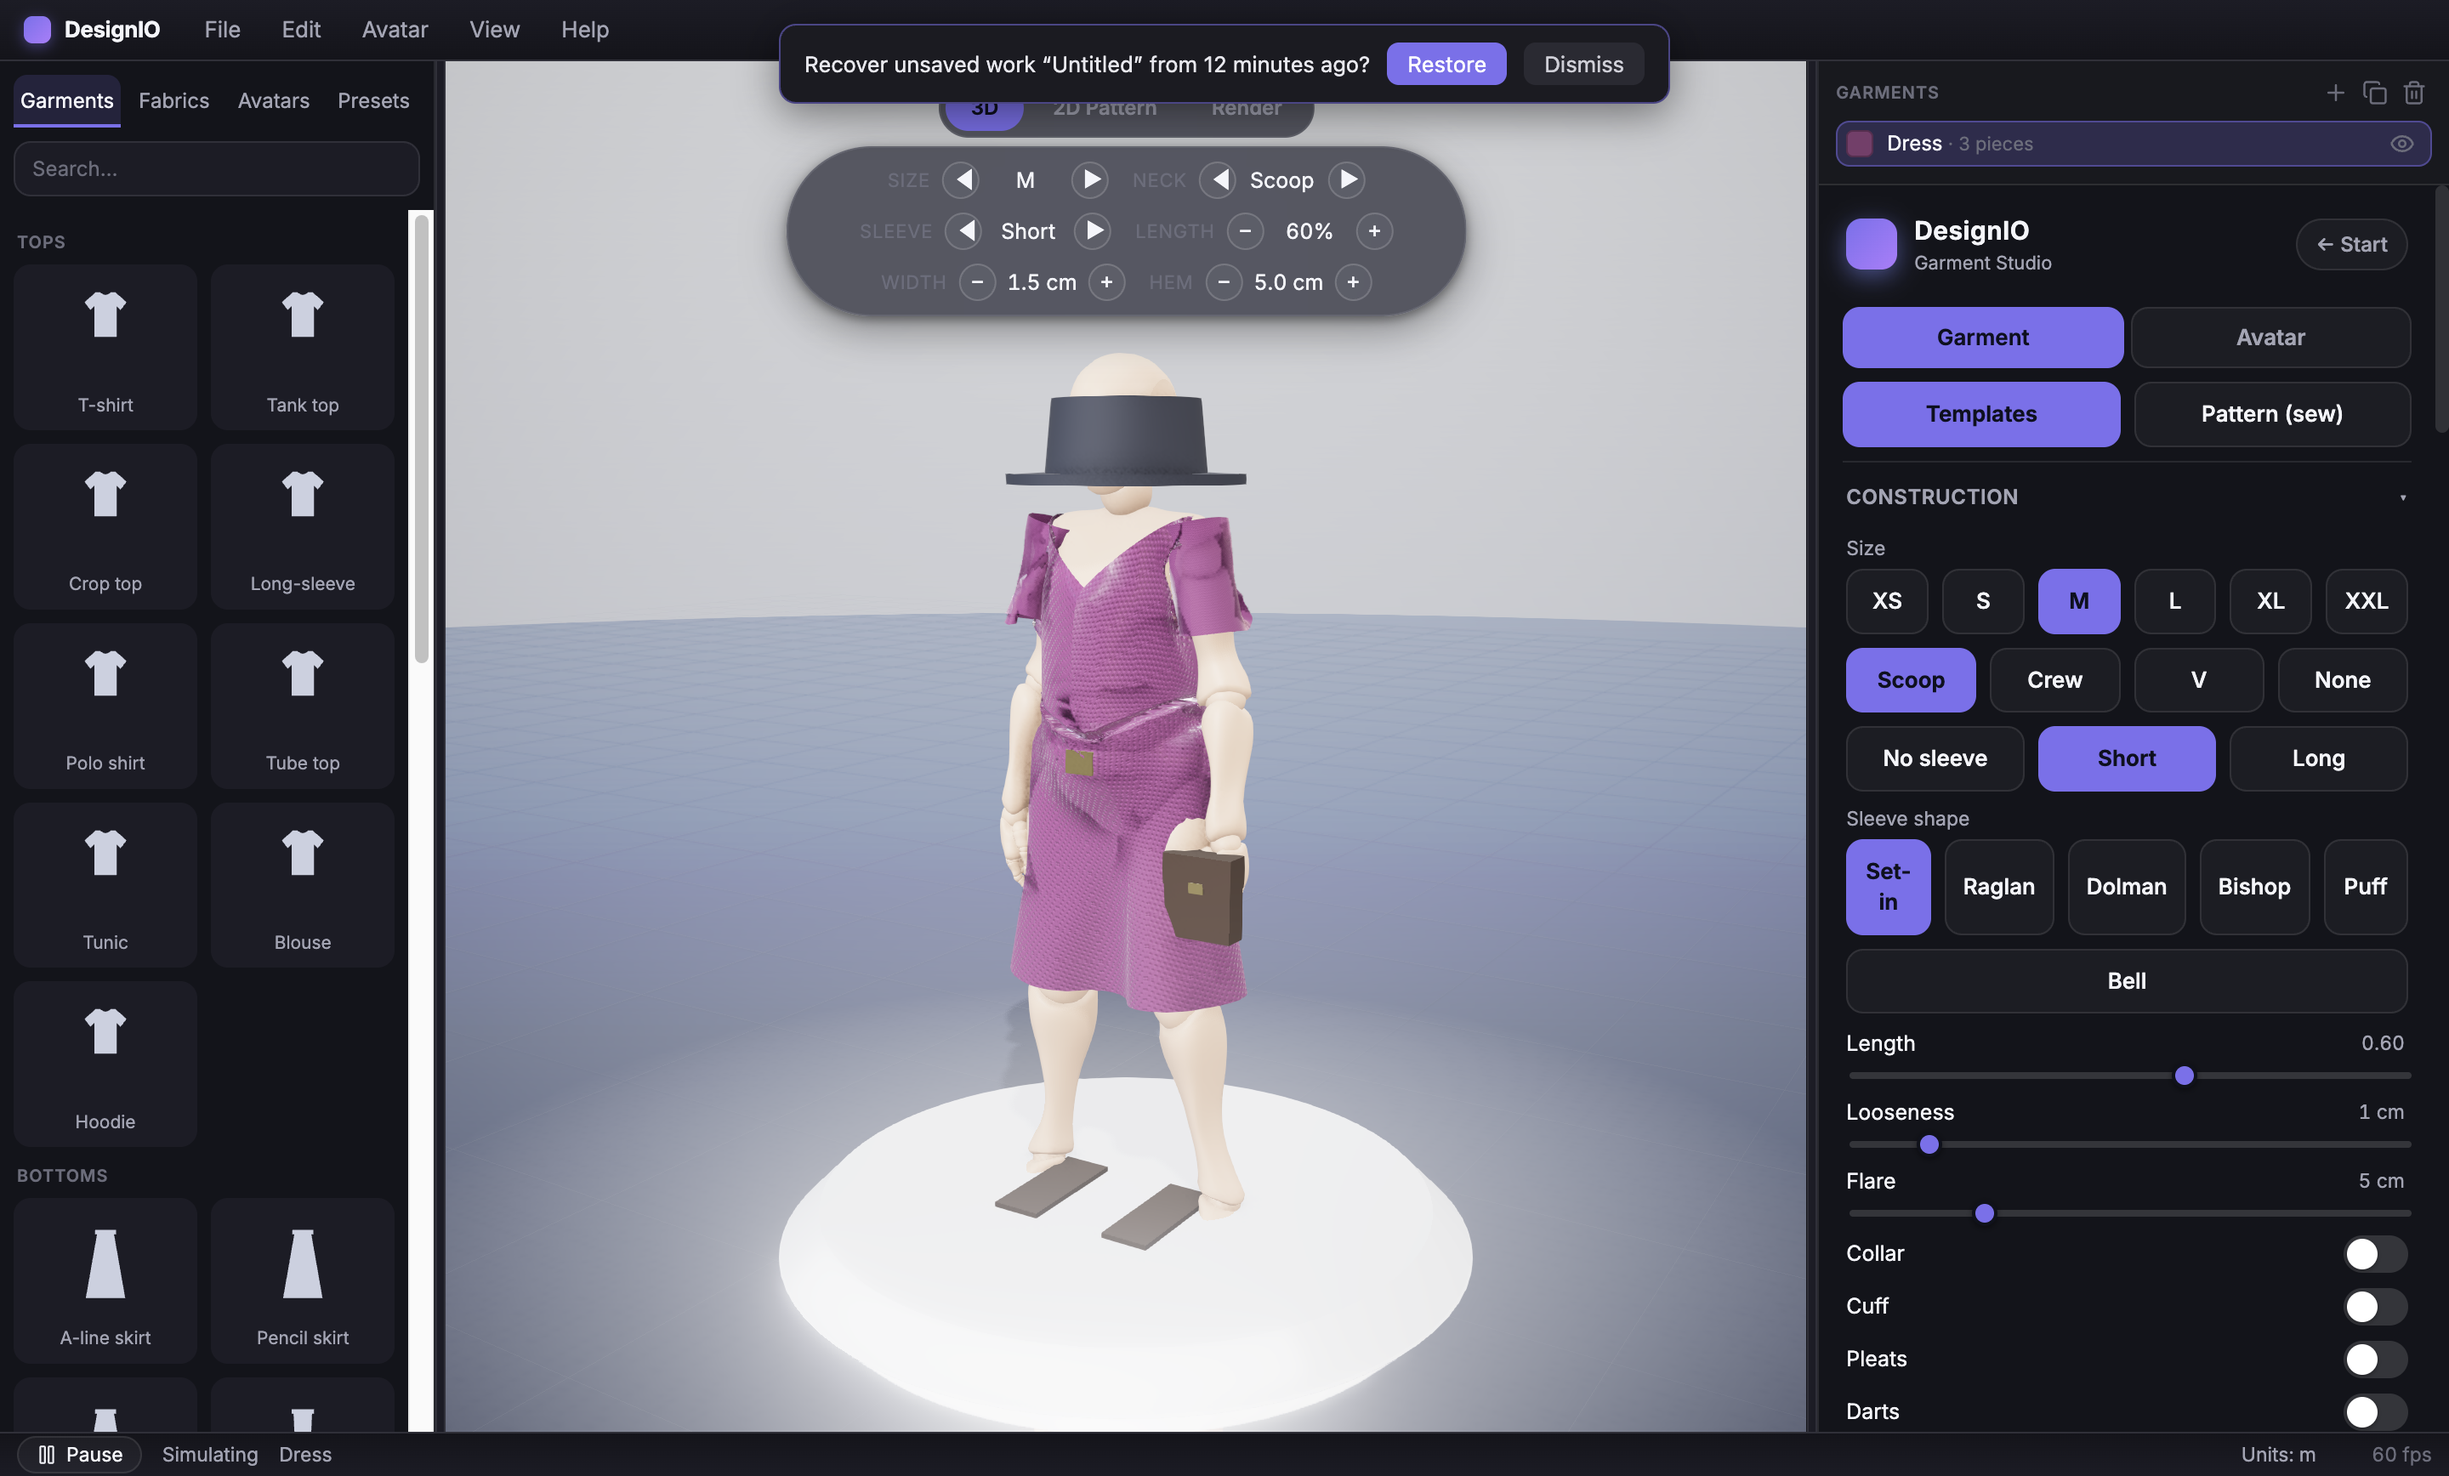
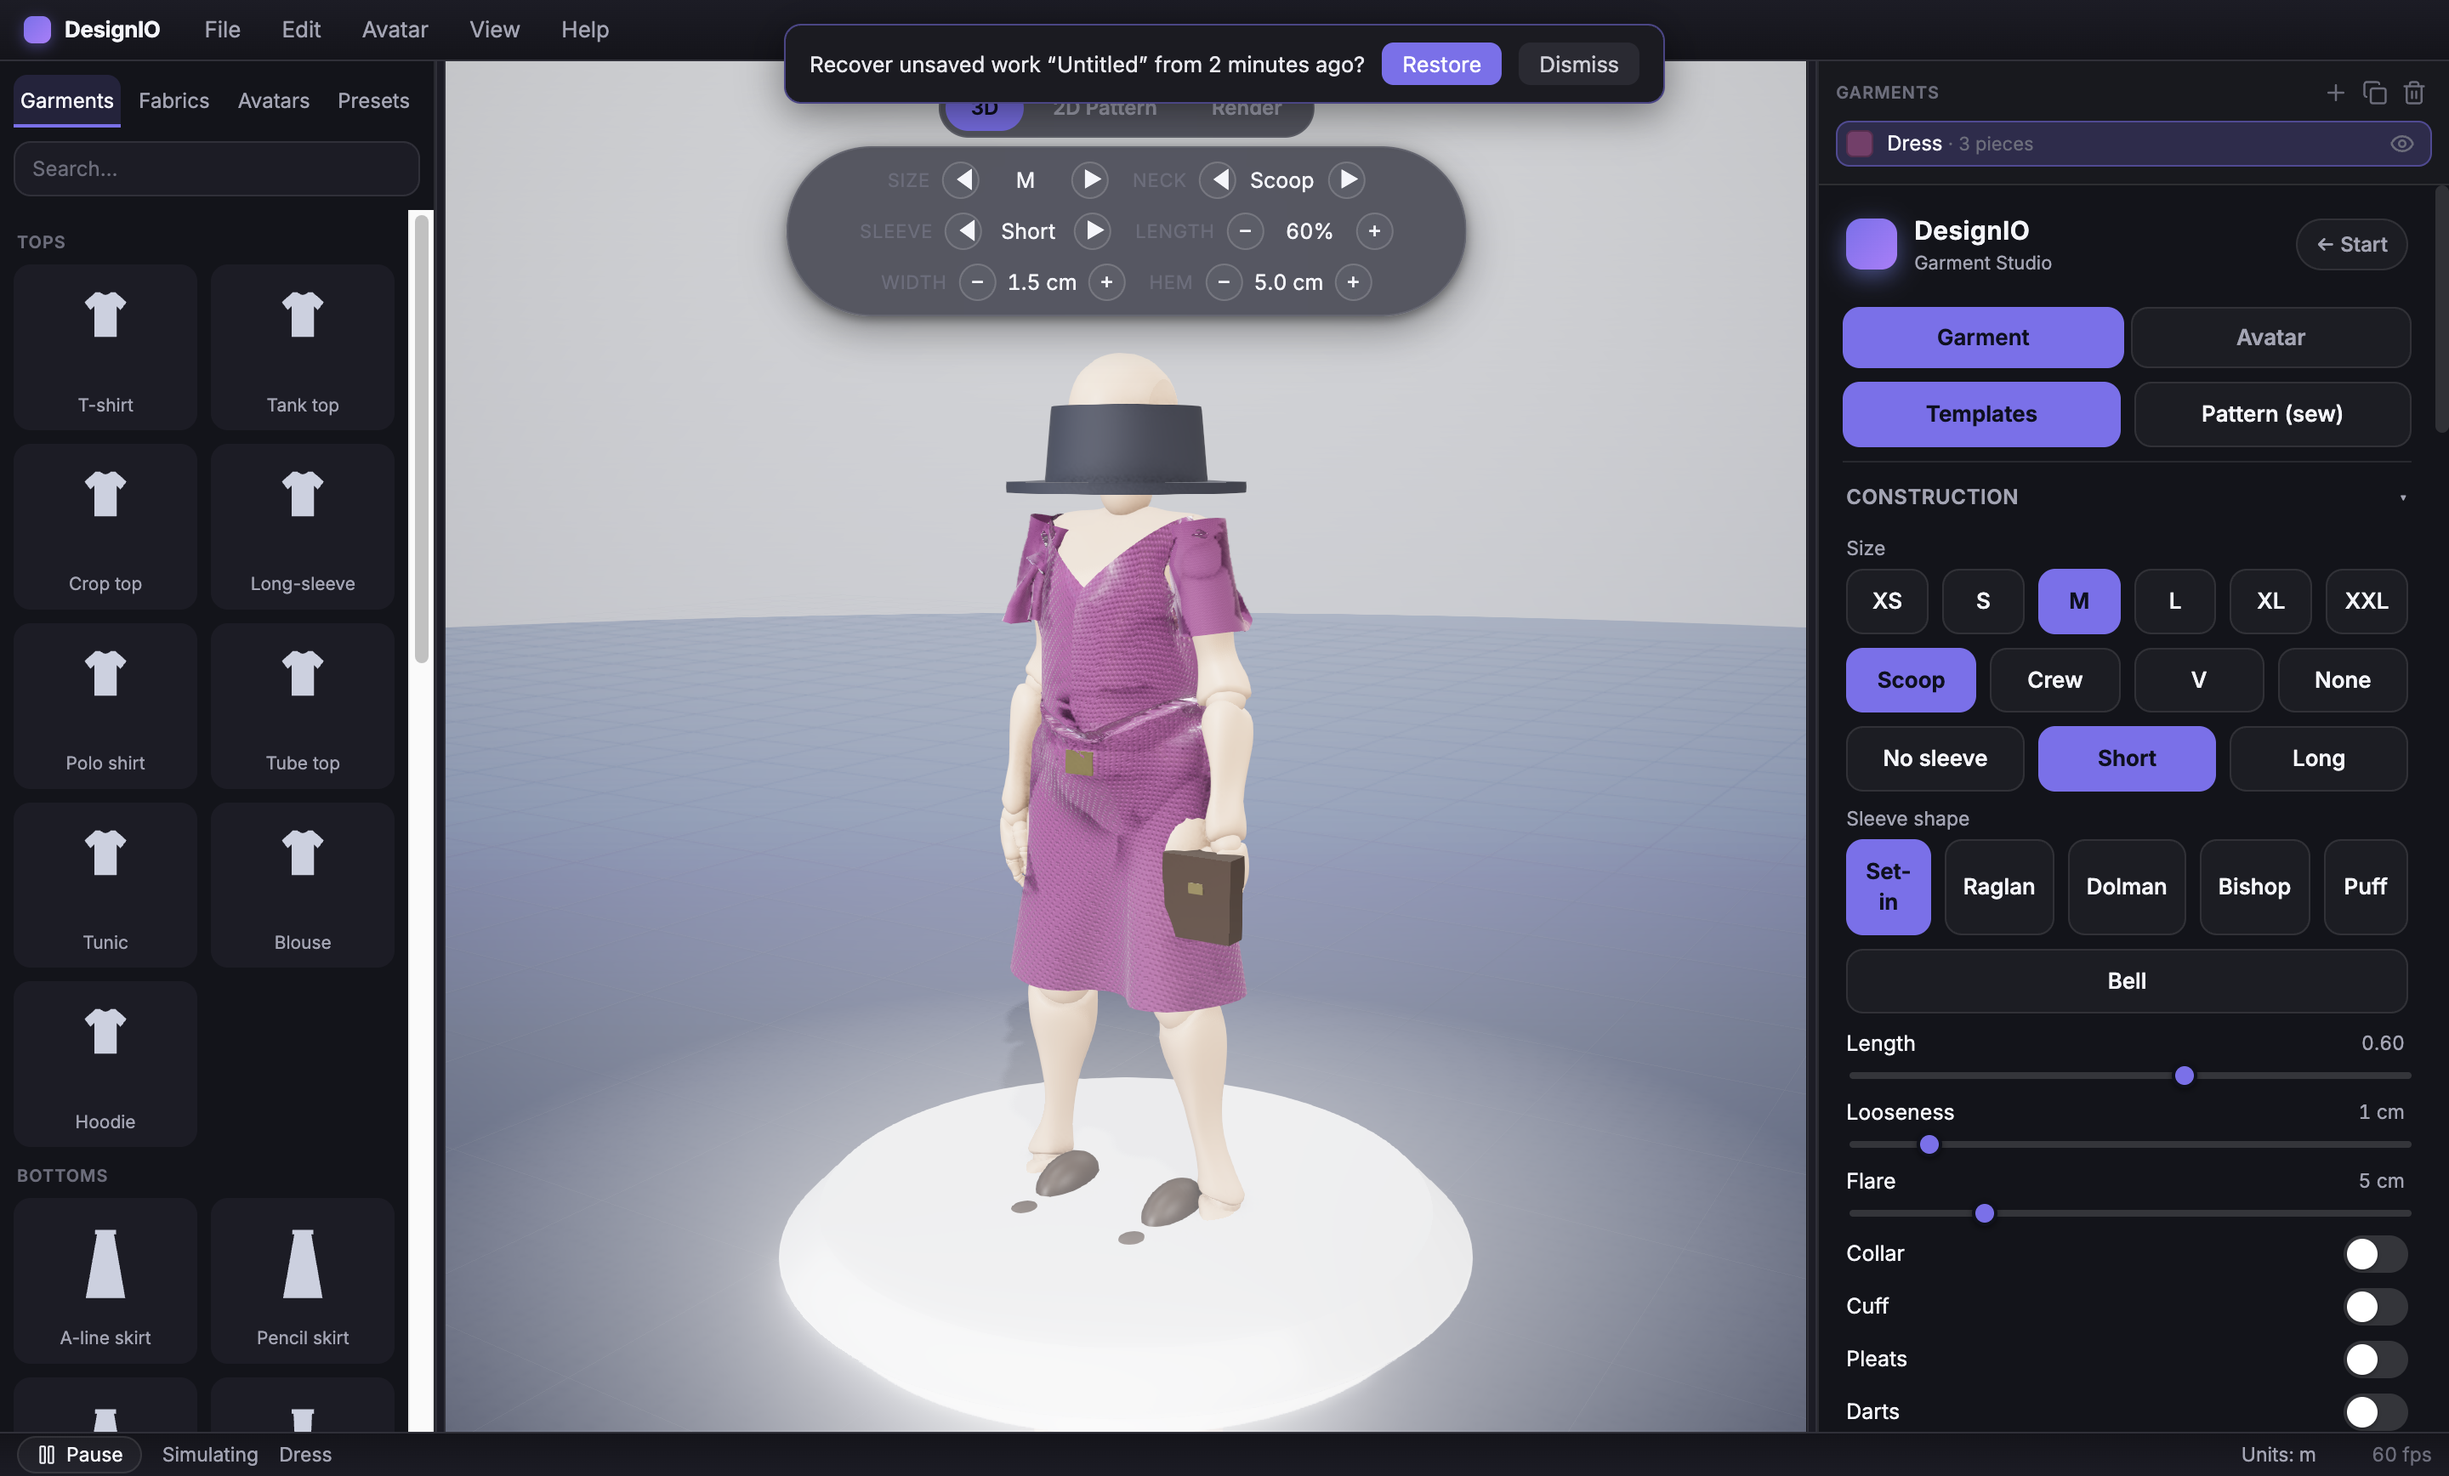
fix: accessory precision — balaclava / shoes / gaiter / hat
A grounded visual audit of every accessory (rendered on the avatar) found
several rigid pieces imprecise:

- Balaclava (ski mask): the shell was centred at y=-0.3 (too low), so its narrow
  top didn't cover the crown — the head poked out bare. Centre it at the cranium
  centre (~HC, like the beanie dome) and elongate downward, so its widest part
  domes over the crown and it reaches down past the jaw to the neck. Now a real
  full-head ski mask.
- Shoes: were a flat BoxGeometry slab. Build a real shoe — a sole + a rounded
  instep/heel + a low toe cap.
- Gaiter: sat down at the collarbone; raise it up around the neck (toward the
  jaw) + a touch taller.
- Hat: floated a touch high; settle the brim onto the head (y offset 0.3→0.45 r).

Belt / bag / cap / bucket / accessory-beanie / accessory-scarf confirmed fine —
unchanged. accessoryAnchors placement math is untouched, so its unit tests still
hold. README accessory photos (accessories, balaclava) regenerated.

typecheck + 419 tests + build green.

diff --git a/src/renderer/avatar/accessories.ts b/src/renderer/avatar/accessories.ts
@@ -130,10 +130,19 @@ export class Accessories {
   }
 
   private buildShoes(): Item {
-    const shoe = (): THREE.Mesh => {
-      const g = new THREE.BoxGeometry(0.1, 0.06, 0.26)
-      g.translate(0, 0, 0.05) // toe forward of the ankle
-      return new THREE.Mesh(g, LEATHER)
+    // a real shoe: a flat sole + a rounded instep/heel + a toe cap (not a flat slab)
+    const shoe = (): THREE.Group => {
+      const g = new THREE.Group()
+      const sole = new THREE.Mesh(new THREE.BoxGeometry(0.095, 0.028, 0.27), LEATHER)
+      sole.position.set(0, -0.012, 0.05)
+      const instep = new THREE.Mesh(new THREE.SphereGeometry(0.058, 16, 12), LEATHER)
+      instep.scale.set(0.82, 1.05, 1.7) // domed over the heel + instep
+      instep.position.set(0, 0.012, -0.005)
+      const toe = new THREE.Mesh(new THREE.SphereGeometry(0.05, 14, 10), LEATHER)
+      toe.scale.set(0.92, 0.62, 1.15) // low rounded toe box
+      toe.position.set(0, -0.006, 0.15)
+      g.add(sole, instep, toe)
+      return g
     }
     const l = shoe()
     const r = shoe()
@@ -177,7 +186,7 @@ export class Accessories {
       obj,
       place: (a) => {
         const r = a.headR
-        obj.position.set(a.headTop.x, a.headTop.y - r * 0.3, a.headTop.z)
+        obj.position.set(a.headTop.x, a.headTop.y - r * 0.45, a.headTop.z) // brim settles onto the head
         brim.scale.set(r * 2.3, 1, r * 2.3)
         const crownH = r * 1.5
         crown.scale.set(r * 2.3, crownH, r * 2.3)
@@ -254,14 +263,17 @@ export class Accessories {
 
   private buildBalaclava(): Item {
     const mat = knit(0x1b1e25)
-    // a tall ovoid shell covering the cranium down past the jaw to the neck base
-    const shell = new THREE.Mesh(new THREE.SphereGeometry(1.12, 28, 26, 0, TAU, 0, Math.PI * 0.98), mat)
-    shell.position.y = -0.3
-    shell.scale.set(1.02, 1.5, 1.06)
+    // a tall ovoid shell domed over the WHOLE cranium (crown included) and down past the
+    // jaw to the neck base. Centred near the cranium centre (HC) so the crown is covered.
+    // Centred at the cranium centre (~HC) so its widest part covers the crown (like the
+    // beanie dome), then elongated downward to reach past the jaw to the neck base.
+    const shell = new THREE.Mesh(new THREE.SphereGeometry(1.16, 28, 26, 0, TAU, 0, Math.PI), mat)
+    shell.position.y = 0.32
+    shell.scale.set(1.08, 1.36, 1.1)
     // face-opening cue: a darker recessed oval on the front (a real cut-out is a cloth-sim card)
     const face = new THREE.Mesh(new THREE.CircleGeometry(0.5, 22), new THREE.MeshStandardMaterial({ color: 0x0f1116, roughness: 0.9 }))
     face.scale.set(0.9, 0.74, 1)
-    face.position.set(0, -0.25, 1.12)
+    face.position.set(0, -0.04, 1.18)
     const obj = new THREE.Group()
     obj.add(shell, face)
     return this.headItem('balaclava', obj)
@@ -284,8 +296,8 @@ export class Accessories {
   }
 
   private buildGaiter(): Item {
-    const tube = new THREE.Mesh(new THREE.CylinderGeometry(2.2, 2.4, 4.4, 24, 1, true), knit(0x565c67))
-    tube.position.y = 0.3
+    const tube = new THREE.Mesh(new THREE.CylinderGeometry(2.1, 2.4, 5.2, 24, 1, true), knit(0x565c67))
+    tube.position.y = 0.9 // sit up around the neck (toward the jaw), not down at the collarbone
     const obj = new THREE.Group()
     obj.add(tube)
     return this.neckItem('gaiter', obj)

diff --git a/KANBAN.md b/KANBAN.md
@@ -190,6 +190,7 @@ Legend: ✅ done · 🔄 in progress · 📋 backlog
 ## 🧢 Headwear & neckwear _(hats · beanies · ski masks · scarves · head scarves — a full build-out)_
 
 - [x] **Rigid headwear/neckwear accessories** — beanie · cap · bucket hat · balaclava (ski mask) · scarf · neck gaiter added to the avatar `Accessories` system, placed by the **head/neck frame** so they ride the animated head (crown dome + folded cuff, cap dome + curved bill, bucket dome + brim, full-head shell, neck loop + tails, knit tube); `accessoryAnchors` now exposes the head-frame basis + neck ring; pure placement math unit-tested; auto-wired into the `?accessories=` deep-link + Avatar-panel toggles — PR #182
+- [x] **Accessory precision pass** — a grounded visual audit found several rigid accessories imprecise: the **balaclava** shell was centred too low so the crown poked out bare (now domed over the whole head at the cranium centre like the beanie → a real full-head ski mask); the **shoes** were flat `Box` slabs (now a sole + rounded instep/heel + toe cap → real footwear); the **gaiter** sat down at the collarbone (raised up around the neck) and the **hat** floated a touch high (settled onto the head). Belt/bag/cap/bucket confirmed fine; README accessory photos refreshed
 
 **Cloth-sim foundation** _(make the drape-y pieces real catalog garments — refine `garments/schema` · `factory` · `avatar/Mannequin` · `garment/GarmentController`)_
 - [x] **Head/neck anchor** — `head` added to `BodyAnchors` + `AnchorKey`; a pure `headAnchor(colliders)` builds the crown+basis `Matrix4` from the head frame (works for the procedural body + the GLB head bone) and `Mannequin.anchors()` returns it live so it turns/nods with the head — the frame a cloth-sim `headTube` pins to; unit-tested — PR #183
